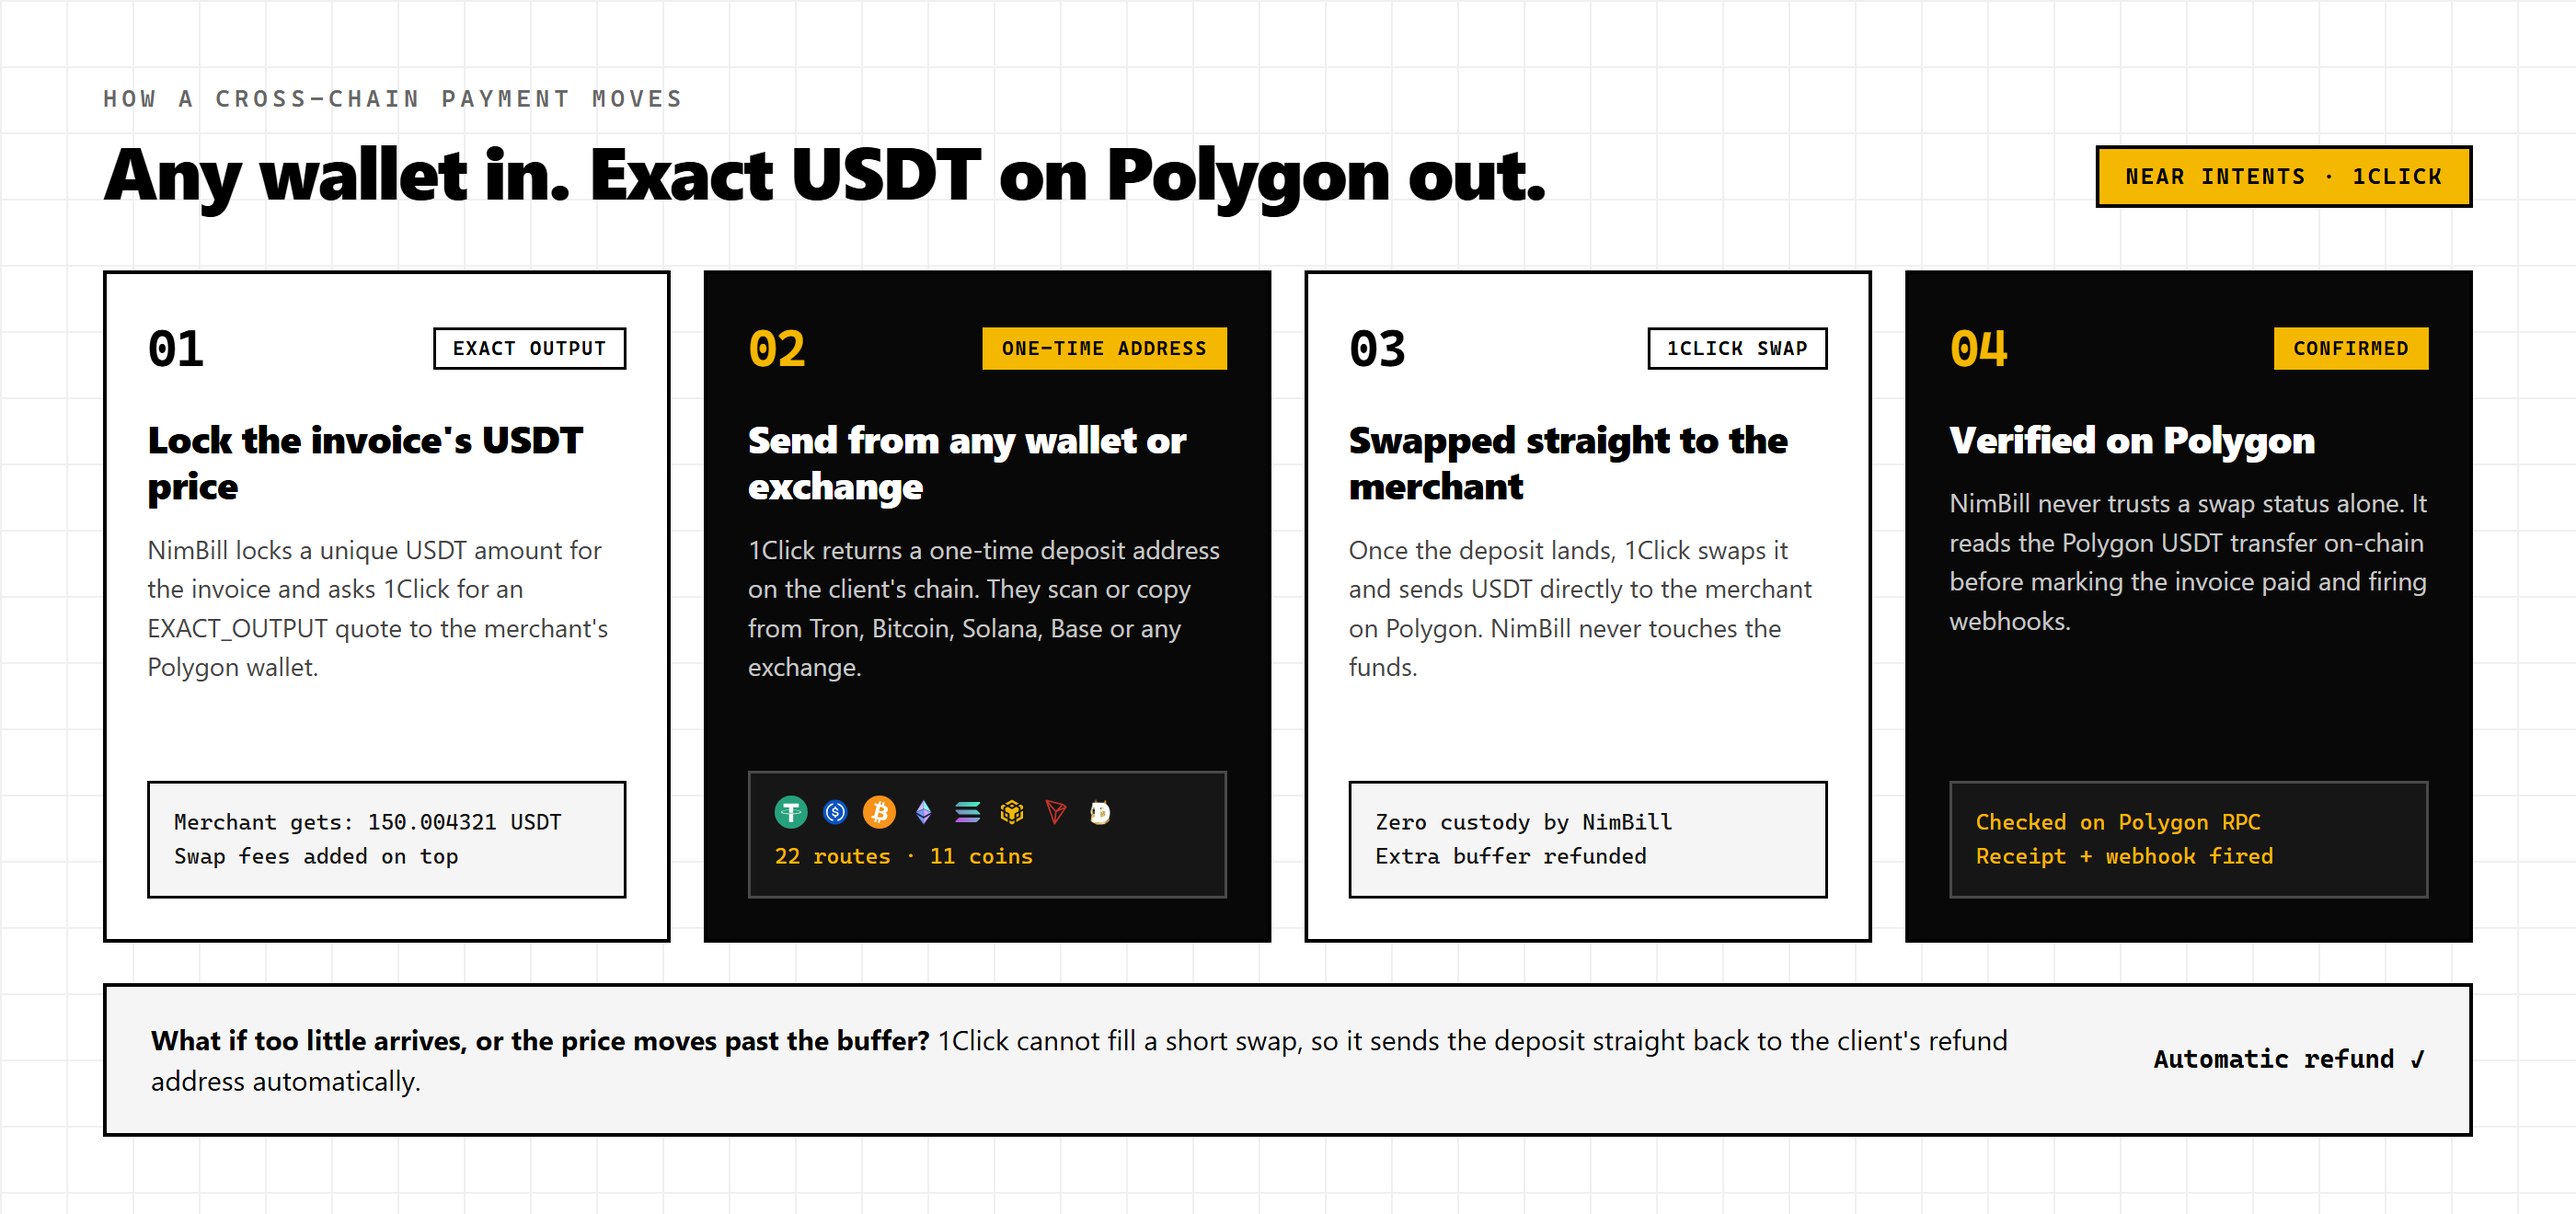
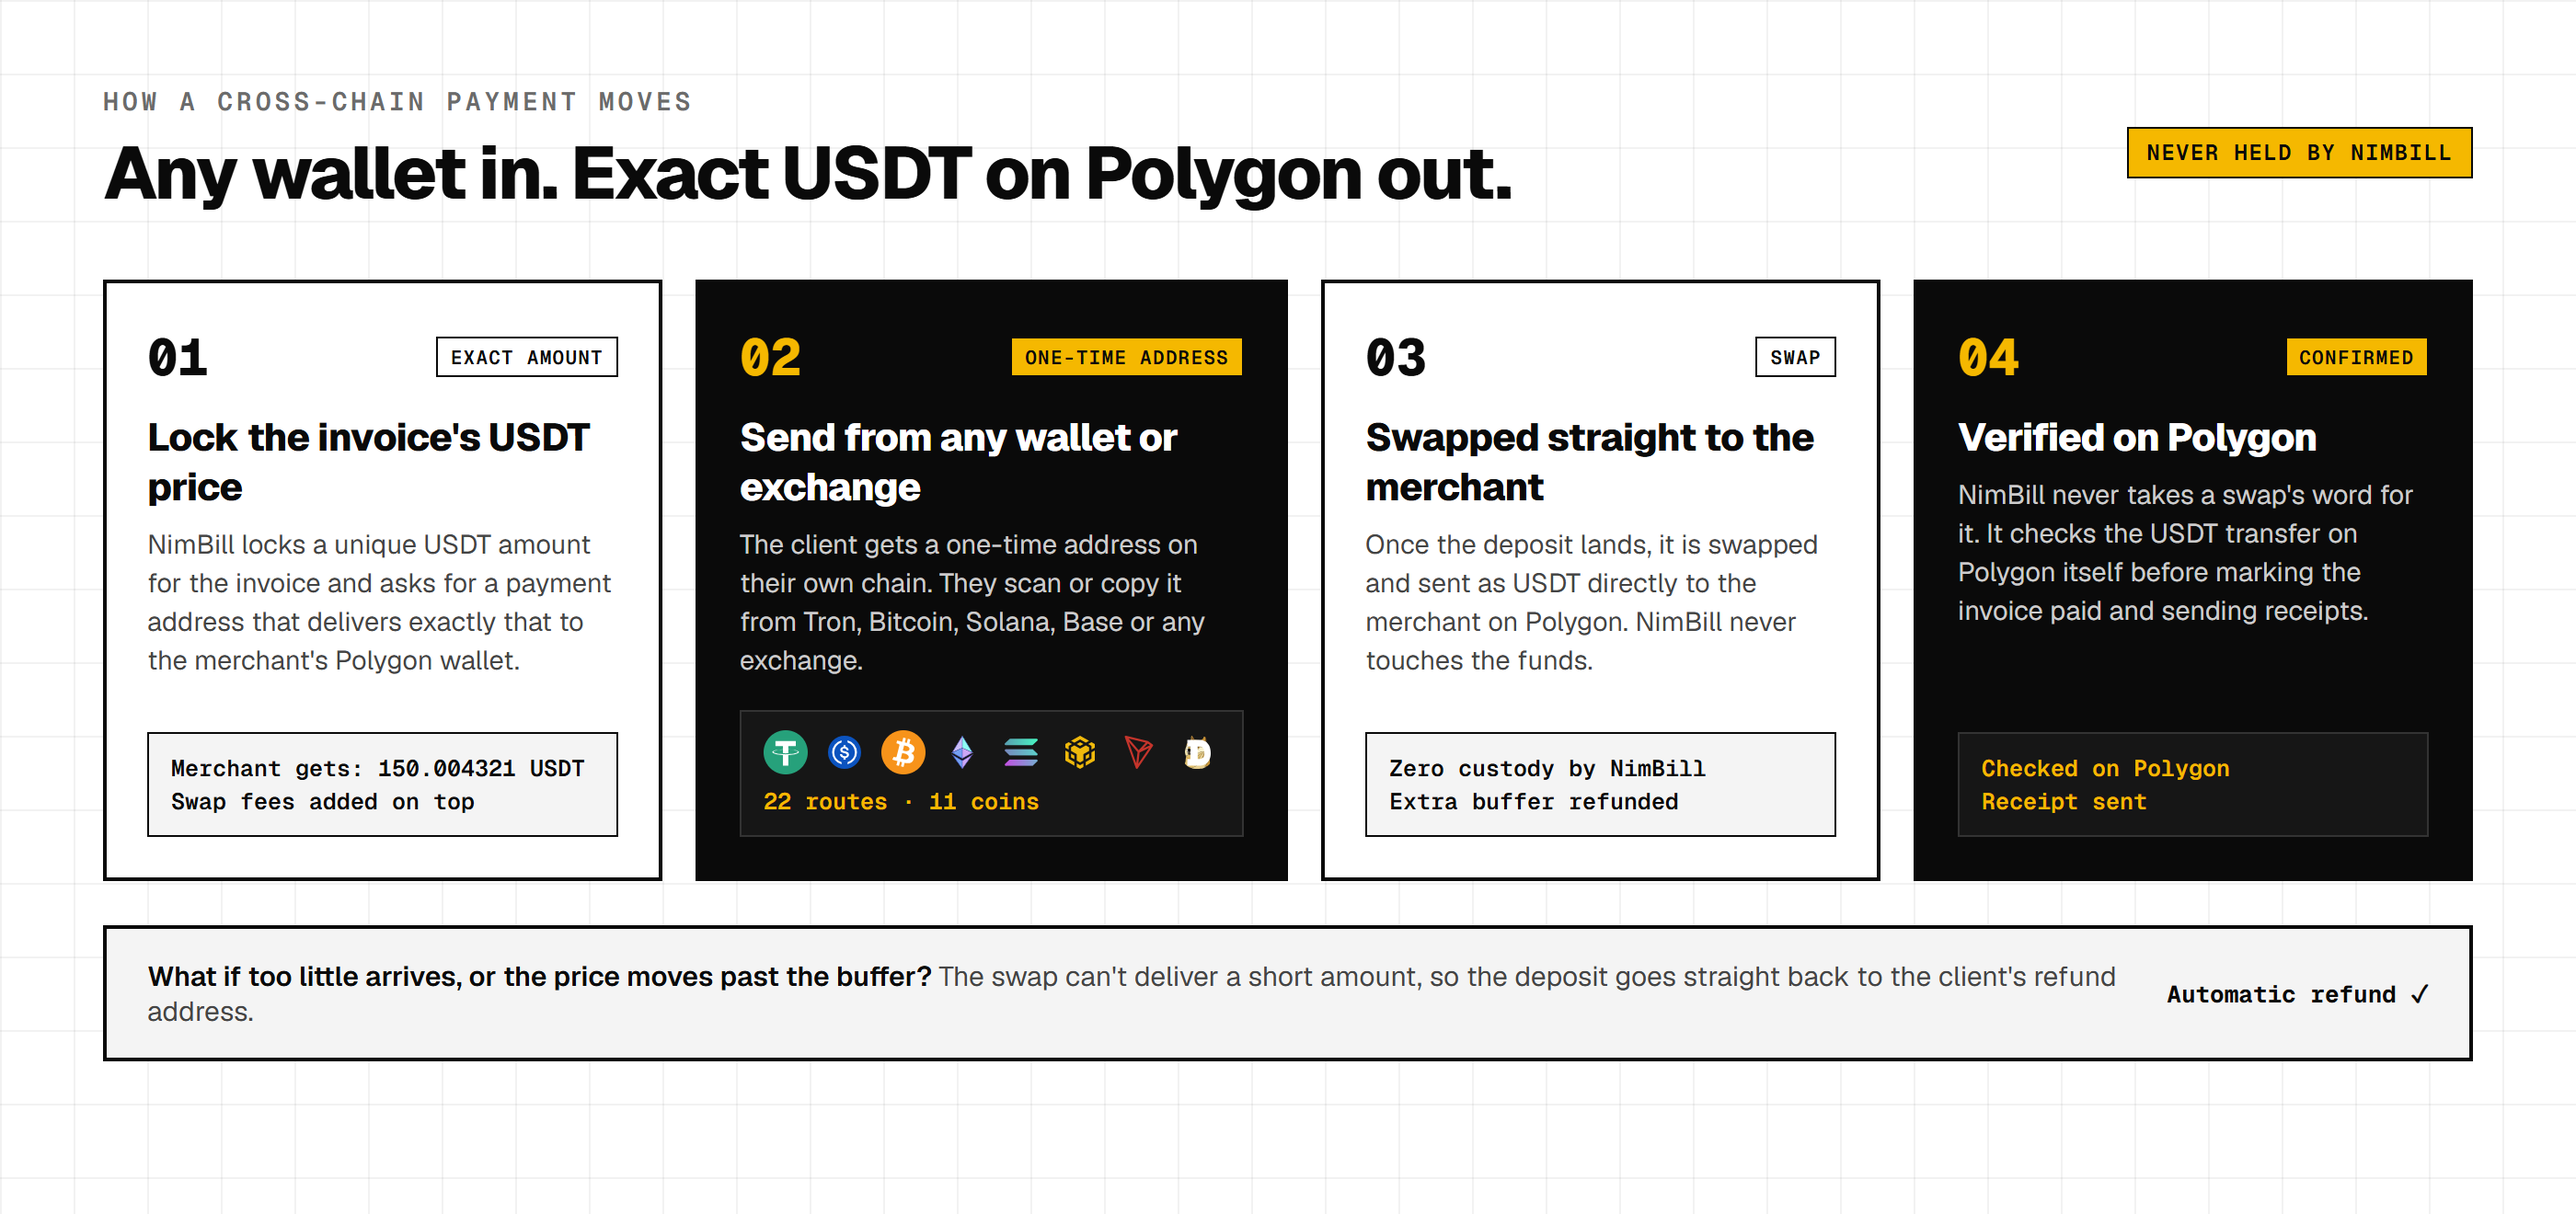
Keep service names out of the blog and landing page
Readers don't need to know which APIs power a feature, only what it does
for them. The README keeps the technical details.

- Pay from any chain post: no NEAR Intents / 1Click, EXACT_OUTPUT,
  function names or RPC; plain words for refund checks, verification
  and the three-day watch
- Withdrawals post: "our swap partner" instead of Lendaswap
- Landing: "Exact amount" and "Swapped" in the any-chain card, "Checked
  on Nimiq" instead of "Nimiq RPC"
- Re-rendered the three blog diagrams that had the names drawn in

diff --git a/src/content/blog/pay-from-any-chain.tsx b/src/content/blog/pay-from-any-chain.tsx
@@ -100,16 +100,15 @@ export default function PayFromAnyChain() {
         </CoinText>
       </p>
       <p>
-        We built Pay from another chain backwards using{" "}
-        <a href="https://docs.near-intents.org/integration/distribution-channels/1click-api">NEAR Intents&apos; 1Click API</a> with{" "}
-        <code>EXACT_OUTPUT</code> quotes:
+        We built Pay from another chain backwards: it starts from the exact amount you should receive and works out what your client needs
+        to send.
       </p>
 
       <figure className="my-8 border border-ink bg-subtle">
         {/* eslint-disable-next-line @next/next/no-img-element */}
         <img
           src="/blog/pay-other-chain/how-swap-works.png"
-          alt="Four steps of a cross-chain NimBill payment: locking an exact USDT output quote, sending to a one-time deposit address, 1Click swapping directly to the merchant on Polygon, and NimBill verifying the Polygon transfer on-chain."
+          alt="Four steps of a cross-chain NimBill payment: locking the exact USDT amount, sending to a one-time deposit address, the swap paying the merchant directly on Polygon, and NimBill checking the Polygon transfer itself."
           className="block w-full"
         />
       </figure>
@@ -120,9 +119,9 @@ export default function PayFromAnyChain() {
           direct Polygon USDT payments already use—held for the deposit window plus a 20-minute delivery margin.
         </li>
         <li>
-          <strong>Quote the exact output.</strong> NimBill asks 1Click for a one-time deposit address on the client&apos;s chain that
-          delivers <em>at least</em> that exact USDT amount to the merchant&apos;s Polygon address. Swap fees sit on the sender&apos;s side,
-          and the amount to send is rounded up cleanly so it is easy to type into an exchange.
+          <strong>Get a one-time address.</strong> NimBill asks our swap partner for a one-time deposit address on the client&apos;s chain
+          that delivers <em>at least</em> that exact USDT amount to the merchant&apos;s Polygon address. Swap fees sit on the sender&apos;s
+          side, and the amount to send is rounded up cleanly so it is easy to type into an exchange.
         </li>
         <li>
           <strong>Send from any wallet or exchange.</strong> The client scans the QR code or copies the deposit address and exact amount.
@@ -137,27 +136,25 @@ export default function PayFromAnyChain() {
 
       <h2 id="refund-safety">Guardrails before any money moves</h2>
       <p>
-        Before NimBill even asks 1Click for a deposit address, the client enters a refund address on the chain they are paying from. Sending
-        a refund to the wrong network usually means losing it, so NimBill validates every refund address strictly on both the pay screen and
-        the server: EIP-55 checksums for EVM chains, Base58Check for Tron, 32-byte keys for Solana, legacy and Bech32/Bech32m (SegWit and
-        Taproot) for Bitcoin and Litecoin, and Dogecoin version bytes.
+        Before NimBill even creates a deposit address, the client enters a refund address on the chain they are paying from. Sending a
+        refund to the wrong network usually means losing it, so NimBill checks that every refund address really belongs to that network and
+        has no typos. A Tron address pasted for a Bitcoin payment, or an address with one wrong character, is caught before any money moves.
       </p>
 
       <Notice title="What if too little arrives, or the price moves past the buffer?">
         <p>
           If an exchange deducts a withdrawal fee from the amount sent, or if a native coin&apos;s price drops past the buffer while the
-          deposit is in flight, 1Click cannot fill the exact USDT output. Instead of delivering a short invoice or holding the funds, 1Click
-          automatically refunds the deposit back to the client&apos;s refund address. Because the merchant never received the funds, no
-          store webhook is fired.
+          deposit is in flight, the swap can&apos;t deliver the exact USDT amount. Instead of delivering a short payment or holding the
+          funds, the deposit goes straight back to the client&apos;s refund address. The merchant never received anything, so the invoice
+          simply stays unpaid.
         </p>
       </Notice>
 
       <h2 id="verify-on-polygon">We never take a swap status on faith</h2>
       <p>
         <CoinText>
-          Our rule for invoices has never changed: <strong>paid means verified on the blockchain.</strong> Even when 1Click reports{" "}
-          <code>SUCCESS</code>, NimBill does not immediately mark the invoice paid. Instead, <code>settleSwapPayment</code> takes the
-          reported Polygon payout hash and checks the transfer directly against Polygon RPC:
+          Our rule for invoices has never changed: <strong>paid means verified on the blockchain.</strong> Even when the swap reports that
+          it is done, NimBill does not mark the invoice paid on its word. It looks up the payout on Polygon itself and checks that:
         </CoinText>
       </p>
       <ul>
@@ -167,9 +164,8 @@ export default function PayFromAnyChain() {
         <li>That transaction hash has never paid another invoice.</li>
       </ul>
       <p>
-        Only after those checks pass does NimBill run the exact same <code>markPaid</code> flow used by direct Nimiq Pay payments—meaning
-        PDF receipts, merchant email notifications, payer receipts, and signed <code>invoice.paid</code> store webhooks all work identically
-        without any extra integration.
+        Only after those checks pass does NimBill mark the invoice paid, exactly as it does for a Nimiq Pay payment. PDF receipts, email
+        notifications to you and your client, and online-store notifications all work the same, with nothing extra to set up.
       </p>
 
       <h2 id="close-the-tab">Built for real life: close the tab, late payouts still land</h2>
@@ -182,20 +178,19 @@ export default function PayFromAnyChain() {
         {/* eslint-disable-next-line @next/next/no-img-element */}
         <img
           src="/blog/pay-other-chain/late-and-background.png"
-          alt="Diagram showing how Pay from another chain handles live 5-second polling, reload recovery, background worker tracking across 1Click's 72-hour late-deposit window, smart buffers, and refund address checks."
+          alt="Diagram showing how Pay from another chain keeps the pay screen up to date, picks a payment back up after a reload, keeps watching for up to three days after the tab is closed, and uses price buffers and refund address checks."
           className="block w-full"
         />
       </figure>
 
       <p>
-        While the pay page is open, it polls every 5 seconds and saves the active payment ID in the browser so reloading picks right back
-        up. Once the client sends, they can close the tab immediately. Our background worker continues watching every open payment—and
-        because 1Click keeps deposit addresses open for 72 hours past the client&apos;s displayed deadline, NimBill keeps checking
-        periodically through that entire window so even a delayed exchange withdrawal still settles the invoice cleanly.
+        While the pay page is open, it updates every few seconds and remembers the payment in the browser, so reloading picks right back up.
+        Once the client sends, they can close the tab immediately. NimBill keeps watching every open payment in the background for up to
+        three days, so even a delayed exchange withdrawal still settles the invoice cleanly.
       </p>
       <p>
-        And if the invoice was already paid another way or cancelled before a late swap arrived, NimBill records the swap as{" "}
-        <code>delivered_unmatched</code> instead of counting the invoice paid twice or overwriting its receipt.
+        And if the invoice was already paid another way, or cancelled, before a late payment arrived, NimBill notes it separately instead of
+        counting the invoice paid twice or overwriting its receipt.
       </p>
 
       <h2 id="full-circle">Any wallet in, any wallet out</h2>
@@ -208,9 +203,8 @@ export default function PayFromAnyChain() {
         </CoinText>
       </p>
       <p>
-        Create an invoice in NimBill and share the link to try it out, read the technical notes in{" "}
-        <a href="https://github.com/Emmanuelmelvin/nimbill/blob/main/docs/pay-from-other-chains.md">docs/pay-from-other-chains.md</a>, or
-        say hi and tell us which chain you want next on <a href="https://x.com/mercichidi">X</a>.
+        Create an invoice in NimBill and share the link to try it out, or say hi and tell us which chain you want next on{" "}
+        <a href="https://x.com/mercichidi">X</a>.
       </p>
     </>
   );

diff --git a/src/content/blog/money-in-to-money-out.tsx b/src/content/blog/money-in-to-money-out.tsx
@@ -90,11 +90,10 @@ export default function MoneyInToMoneyOut() {
 
       <p>
         <CoinText>
-          Before you approve anything, NimBill fetches a live quote from <a href="https://lendaswap.com">Lendaswap</a> and shows you the
-          full picture on one calm review screen: the exact USDC or USDT that will arrive, the small provider and network fees, and about
-          how much NIM it will take. Better yet, you do not need any extra coins in your destination wallet to pay for network gas fees.
-          Even if you are withdrawing into a brand-new Polygon, Ethereum, or Arbitrum wallet with a zero balance, your stablecoins arrive
-          ready to use.
+          Before you approve anything, NimBill fetches a live quote from our swap partner and shows you the full picture on one calm review
+          screen: the exact USDC or USDT that will arrive, the small provider and network fees, and about how much NIM it will take. Better
+          yet, you do not need any extra coins in your destination wallet to pay for network gas fees. Even if you are withdrawing into a
+          brand-new Polygon, Ethereum, or Arbitrum wallet with a zero balance, your stablecoins arrive ready to use.
         </CoinText>
       </p>
 
@@ -138,7 +137,7 @@ export default function MoneyInToMoneyOut() {
         {/* eslint-disable-next-line @next/next/no-img-element */}
         <img
           src="/blog/withdraw/atomic-bridge.png"
-          alt="Four steps of a NimBill withdrawal: asking for an exact amount, approving a hold payment in Nimiq Pay, receiving stablecoins via Lendaswap, and blockchain confirmation."
+          alt="Four steps of a NimBill withdrawal: asking for an exact amount, approving a hold payment in Nimiq Pay, receiving stablecoins from the swap partner, and blockchain confirmation."
           className="block w-full"
         />
       </figure>

diff --git a/src/components/landing/AnyChainShowcase.tsx b/src/components/landing/AnyChainShowcase.tsx
@@ -52,7 +52,7 @@ export function AnyChainVisualizer() {
         </div>
         <span className="inline-flex items-center gap-1.5 border border-ink px-2 py-0.5 font-mono text-[11px] font-semibold">
           <span aria-hidden className="blink h-1.5 w-1.5 bg-ink" />
-          EXACT OUTPUT
+          EXACT AMOUNT
         </span>
       </div>
 
@@ -70,7 +70,7 @@ export function AnyChainVisualizer() {
 
         {/* Flowing rail */}
         <div className="flex flex-col items-center justify-center px-1" aria-hidden>
-          <span className="font-mono text-[10px] tracking-wider text-muted uppercase">1Click swap</span>
+          <span className="font-mono text-[10px] tracking-wider text-muted uppercase">Swapped</span>
           <div className="relative my-2 h-1.5 w-24 overflow-hidden bg-line sm:w-20">
             <span className="packet-flow absolute inset-y-0 left-0 w-6 bg-ink" />
           </div>

diff --git a/src/components/landing/Landing.tsx b/src/components/landing/Landing.tsx
@@ -655,7 +655,7 @@ function Verification() {
             </tbody>
           </table>
           <div className="flex flex-wrap gap-2 border-t border-ink px-4 py-3">
-            {["Nimiq RPC", "Polygon · 5 confirmations", "No middleman"].map((t) => (
+            {["Checked on Nimiq", "Polygon · 5 confirmations", "No middleman"].map((t) => (
               <span key={t} className="border border-line px-2 py-0.5 font-mono text-[11px] text-muted">
                 {t}
               </span>
